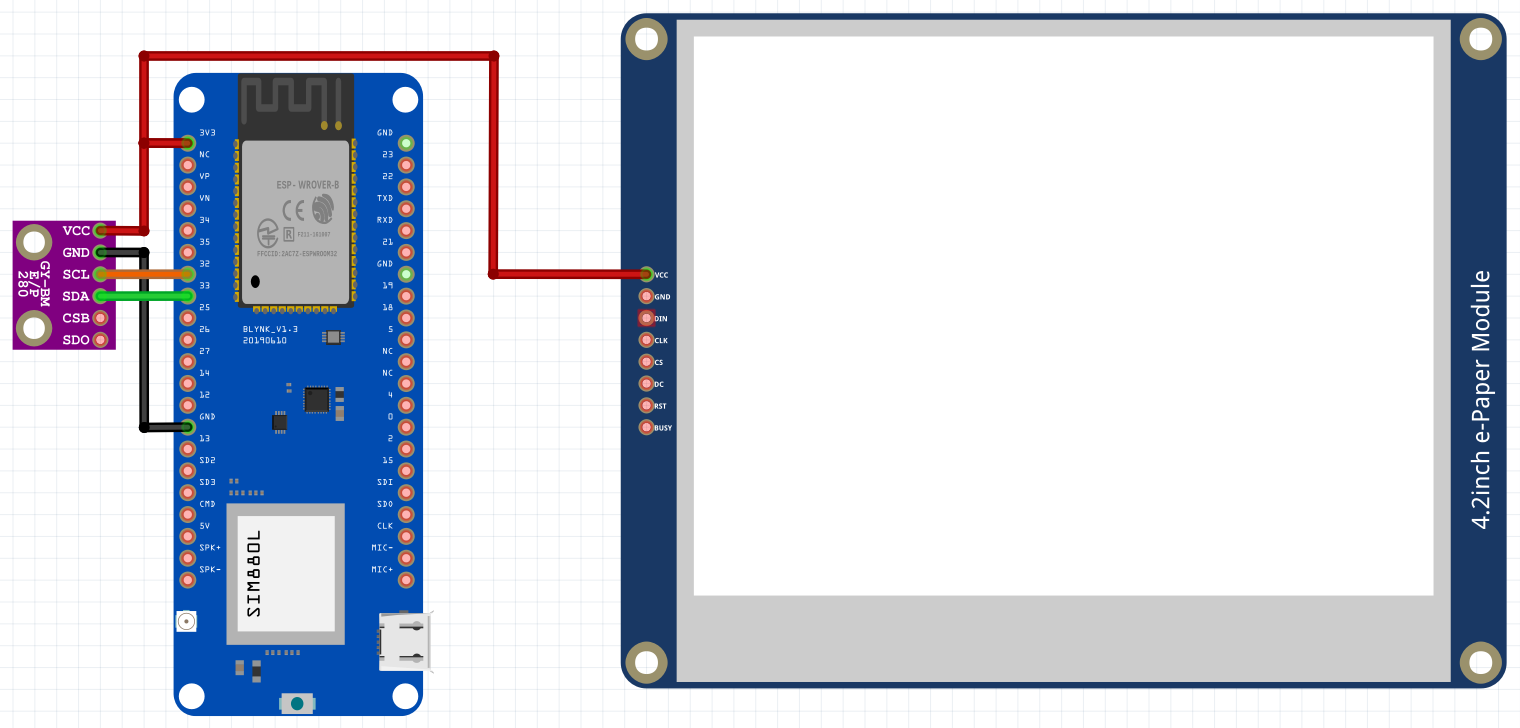
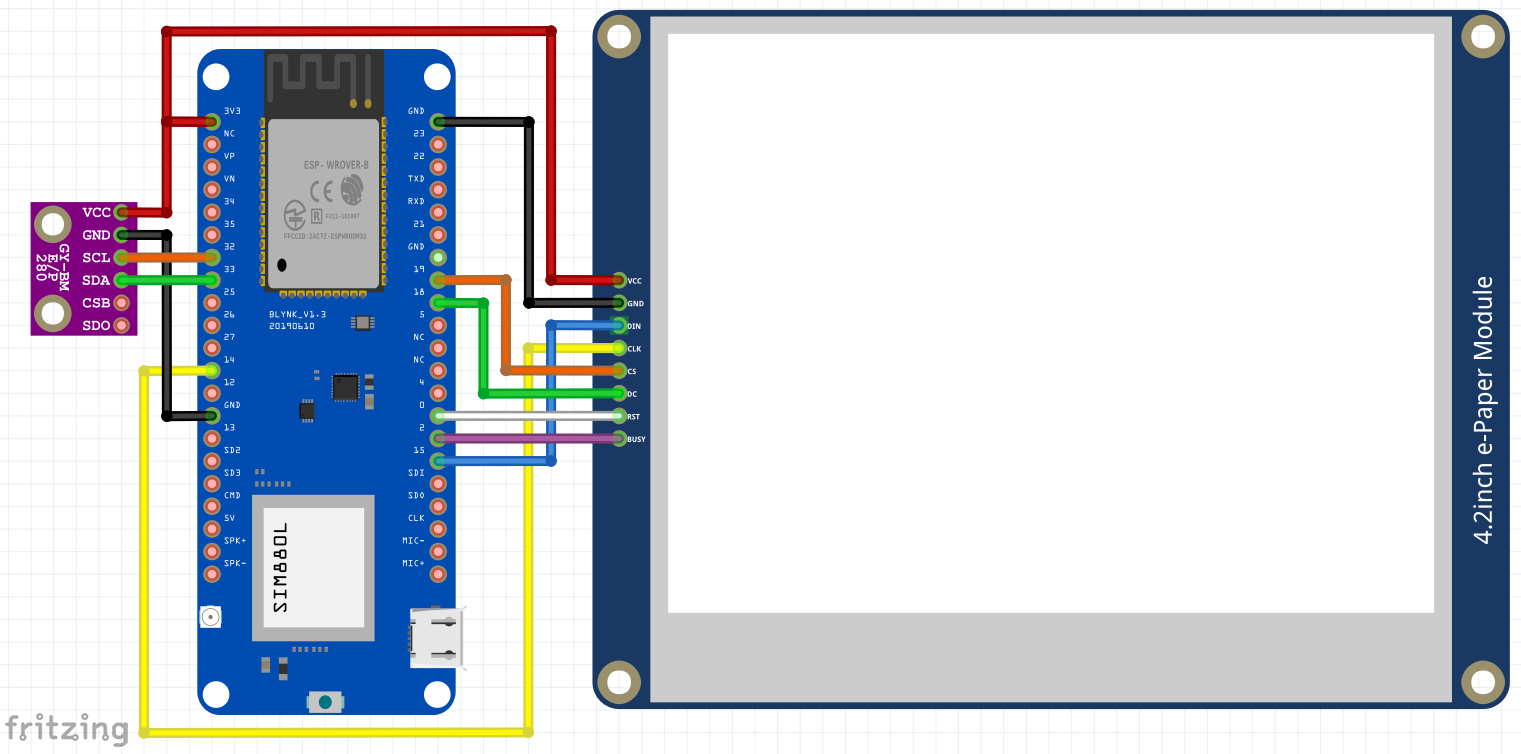
fix pinning issues

Changed region(s): [[0.0, 0.0, 1.0, 0.9973]]

diff --git a/src/main.cpp b/src/main.cpp
@@ -1,5 +1,4 @@
 #include <Arduino.h>
-// #include <Wire.h>
 
 #define LED_BUILTIN (13) // LED is connected to IO13
 
@@ -18,12 +17,17 @@ Adafruit_BME280 bme;         // use I2C
 bool environmentSensorAvailable = false;
 
 // Display stuff
-#define ENABLE_GxEPD2_GFX 0
+#include <GxEPD.h>
+#include <GxGDEW042Z15/GxGDEW042Z15.h> // 4.2" b/w/r
+#include <GxIO/GxIO_SPI/GxIO_SPI.h>
+#include <GxIO/GxIO.h>
+#include GxEPD_BitmapExamples
 
-#include <GxEPD2_BW.h>
-#include <GxEPD2_3C.h>
-#include <Fonts/FreeMonoBold9pt7b.h>
-GxEPD2_3C<GxEPD2_420c, GxEPD2_420c::HEIGHT> display(GxEPD2_420c(/*CS=5*/ 5, /*DC=*/ 4, /*RST=*/ 0, /*BUSY=*/ 2));
+// MOSI=15
+// SCK=14
+GxIO_Class io(SPI, /*CS*/ 19, /*DC*/ 18, /*RST*/ 0);
+GxEPD_Class display(io, /*RST*/ 0, /*BUSY*/ 2);
+#define HAS_RED_COLOR
 
 // FreeFonts from Adafruit_GFX
 #include <Fonts/FreeMonoBold9pt7b.h>
@@ -41,14 +45,14 @@ Statistics pressStats;
 float currentTemperatureCelsius = 0;
 float currentHumidityPercent = 0;
 float currentPressurePascal = 0;
-uint32_t frameCounter = 0;
 
 // Track initialisation
 uint32_t initStage = 0;
 
 // Flow control, basic task scheduler
 #define SCHEDULER_MAIN_LOOP_MS (10) // ms
-bool toggle = false;
+uint32_t counterBase = 0;
+uint32_t counter30s = 0;
 
 // run once on startup
 void setup()
@@ -91,9 +95,12 @@ void setup()
   }
   initStage++;
 
-
+  delay(100);
   display.init(115200);
-  display.clearScreen();  
+  display.setTextColor(GxEPD_BLACK);  
+  display.setFont(&FreeMonoBold18pt7b);
+  display.eraseDisplay();
+  delay(100);
 
   initStage++; // Init complete
   Serial.print("[ INIT ] - Completed at stage ");
@@ -105,22 +112,21 @@ void setup()
 // run forever
 void loop()
 {
-  frameCounter++;
-  toggle = toggle ^ 1;
+  counterBase++;
 
   // 100ms Tasks
-  if (!(frameCounter % (100 / SCHEDULER_MAIN_LOOP_MS)))
+  if (!(counterBase % (100 / SCHEDULER_MAIN_LOOP_MS)))
   {
     digitalWrite(LED_BUILTIN, HIGH);
   }
 
   // 500ms Tasks
-  if (!(frameCounter % (500 / SCHEDULER_MAIN_LOOP_MS)))
+  if (!(counterBase % (500 / SCHEDULER_MAIN_LOOP_MS)))
   {
   }
 
   // 2s Tasks
-  if (!(frameCounter % (2000 / SCHEDULER_MAIN_LOOP_MS)))
+  if (!(counterBase % (2000 / SCHEDULER_MAIN_LOOP_MS)))
   {
     if (environmentSensorAvailable)
     {
@@ -157,6 +163,17 @@ void loop()
     {
       Serial.println("Environment sensor not available.");
     }
+  }
+
+  // 30s Tasks
+  if (!(counterBase % (30000L / SCHEDULER_MAIN_LOOP_MS)))
+  {
+    counter30s++;
+    display.drawExampleBitmap(BitmapExample1, 0, 0, 400, 300, GxEPD_BLACK);
+    display.setCursor(0, 0);
+    display.println();
+    display.printf("%.1f°C",currentTemperatureCelsius);
+    display.updateWindow(0,0,128,128);
   }
 
   delay(SCHEDULER_MAIN_LOOP_MS);
